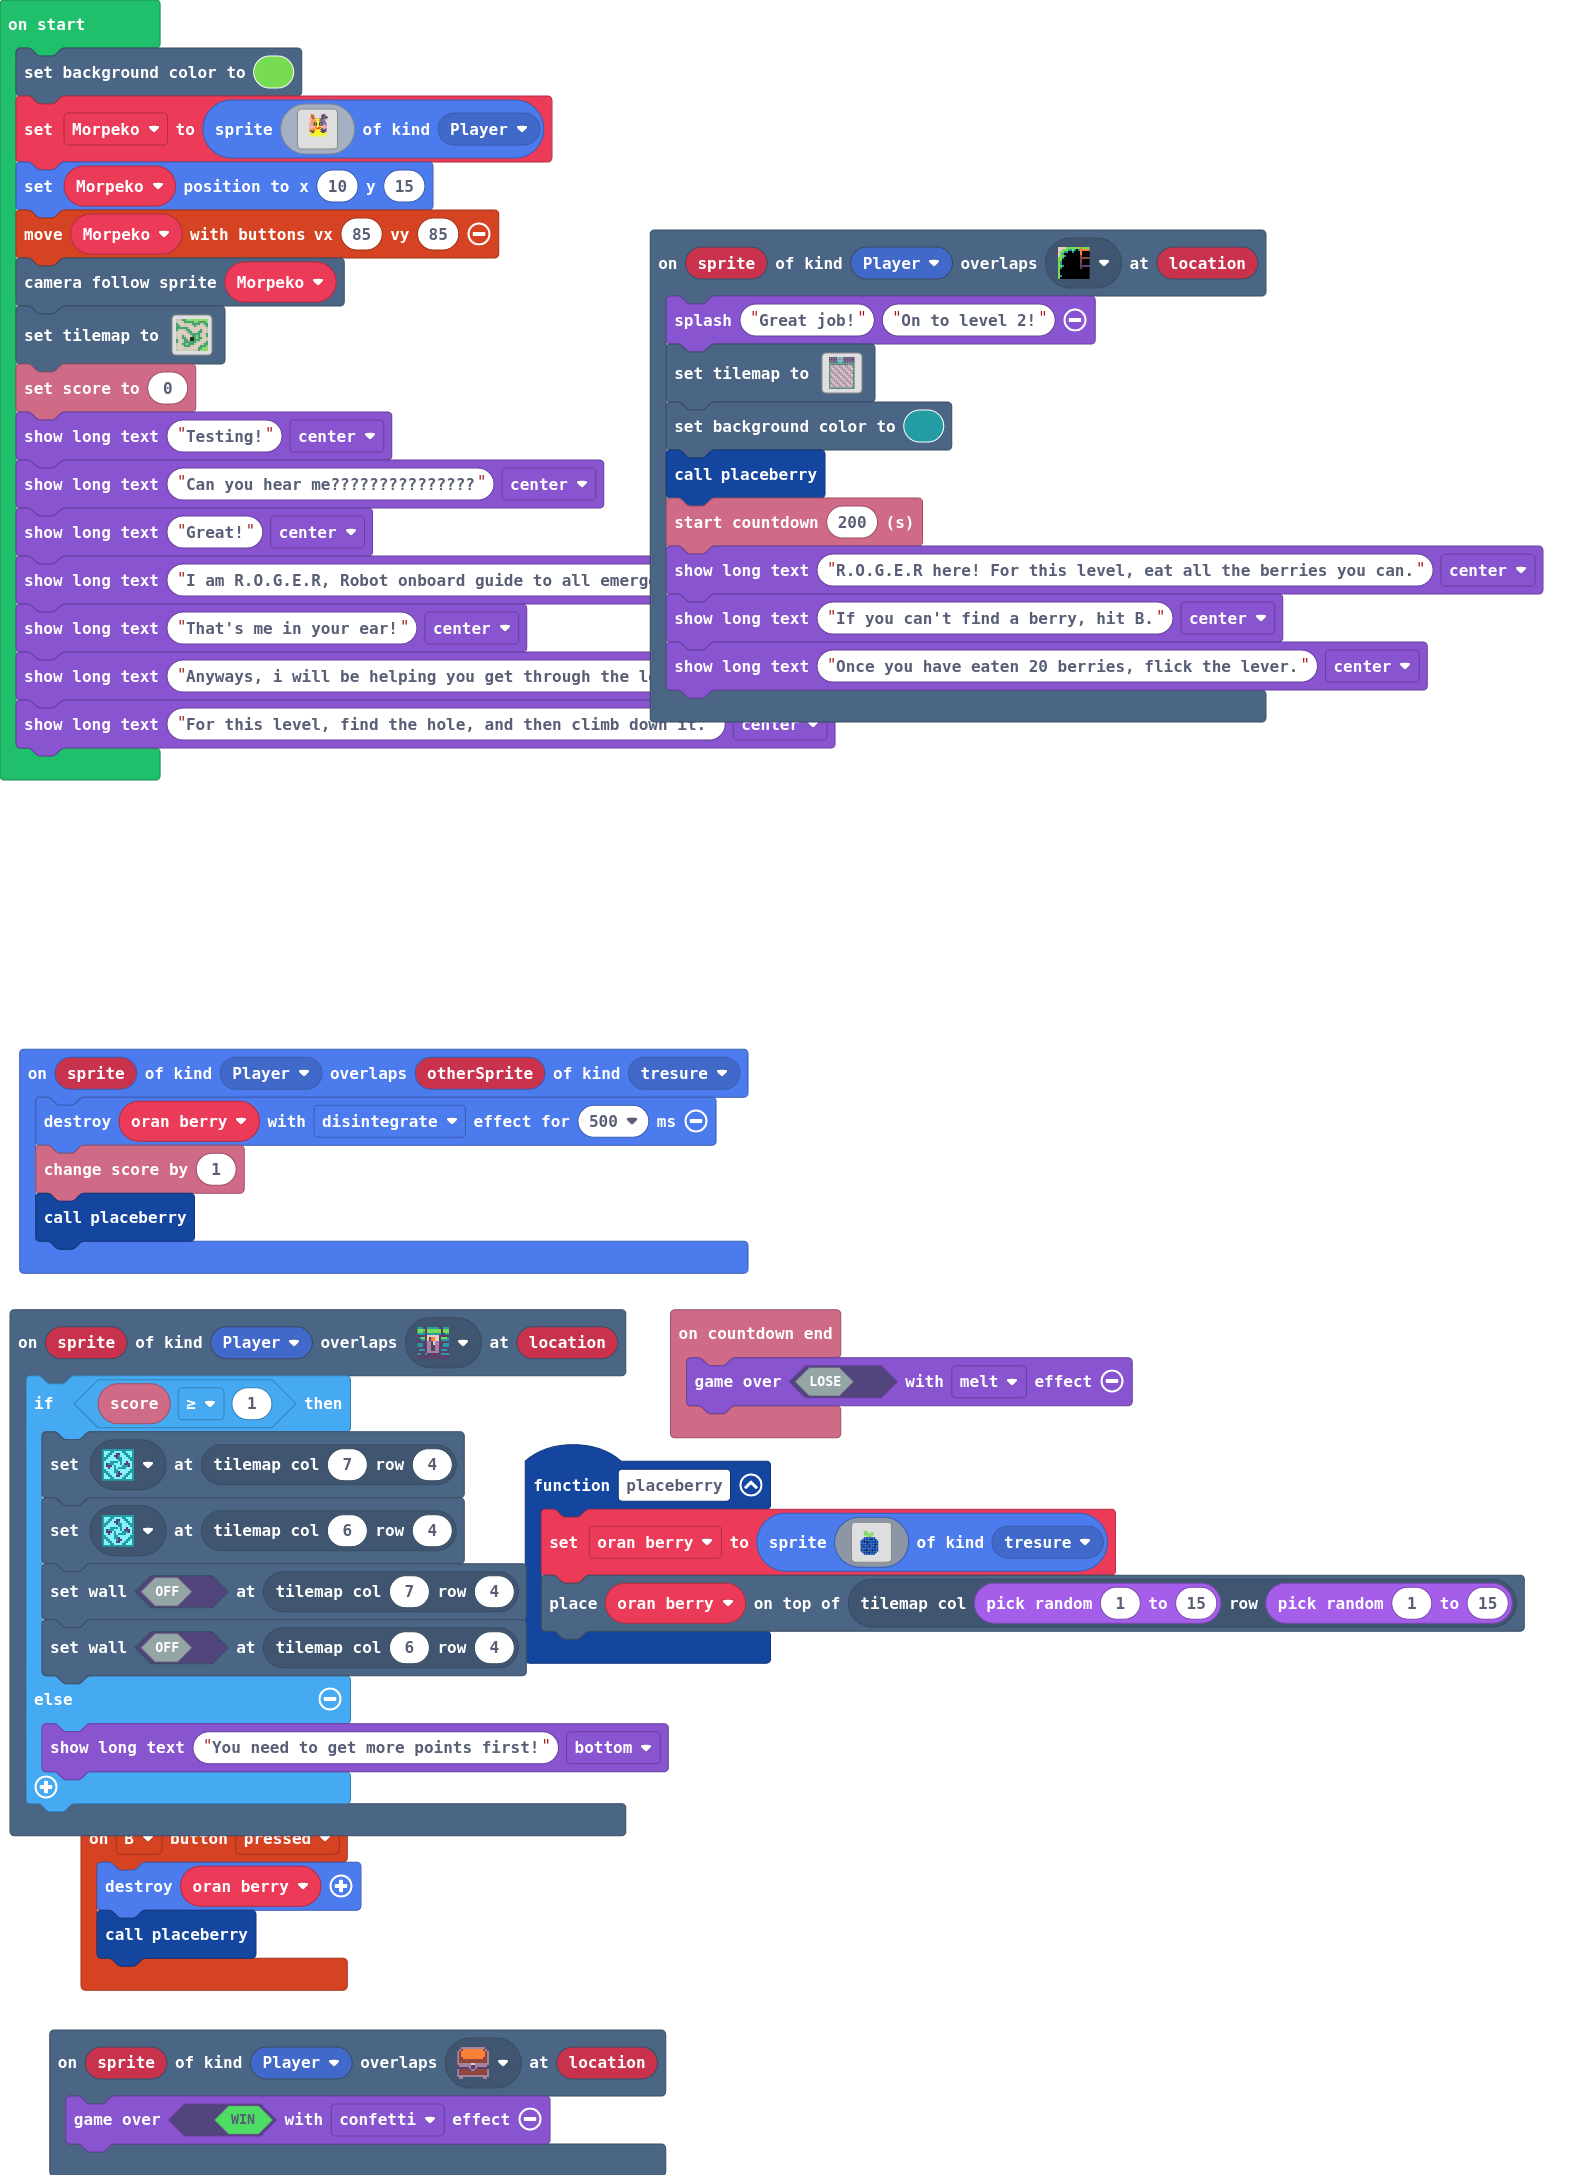
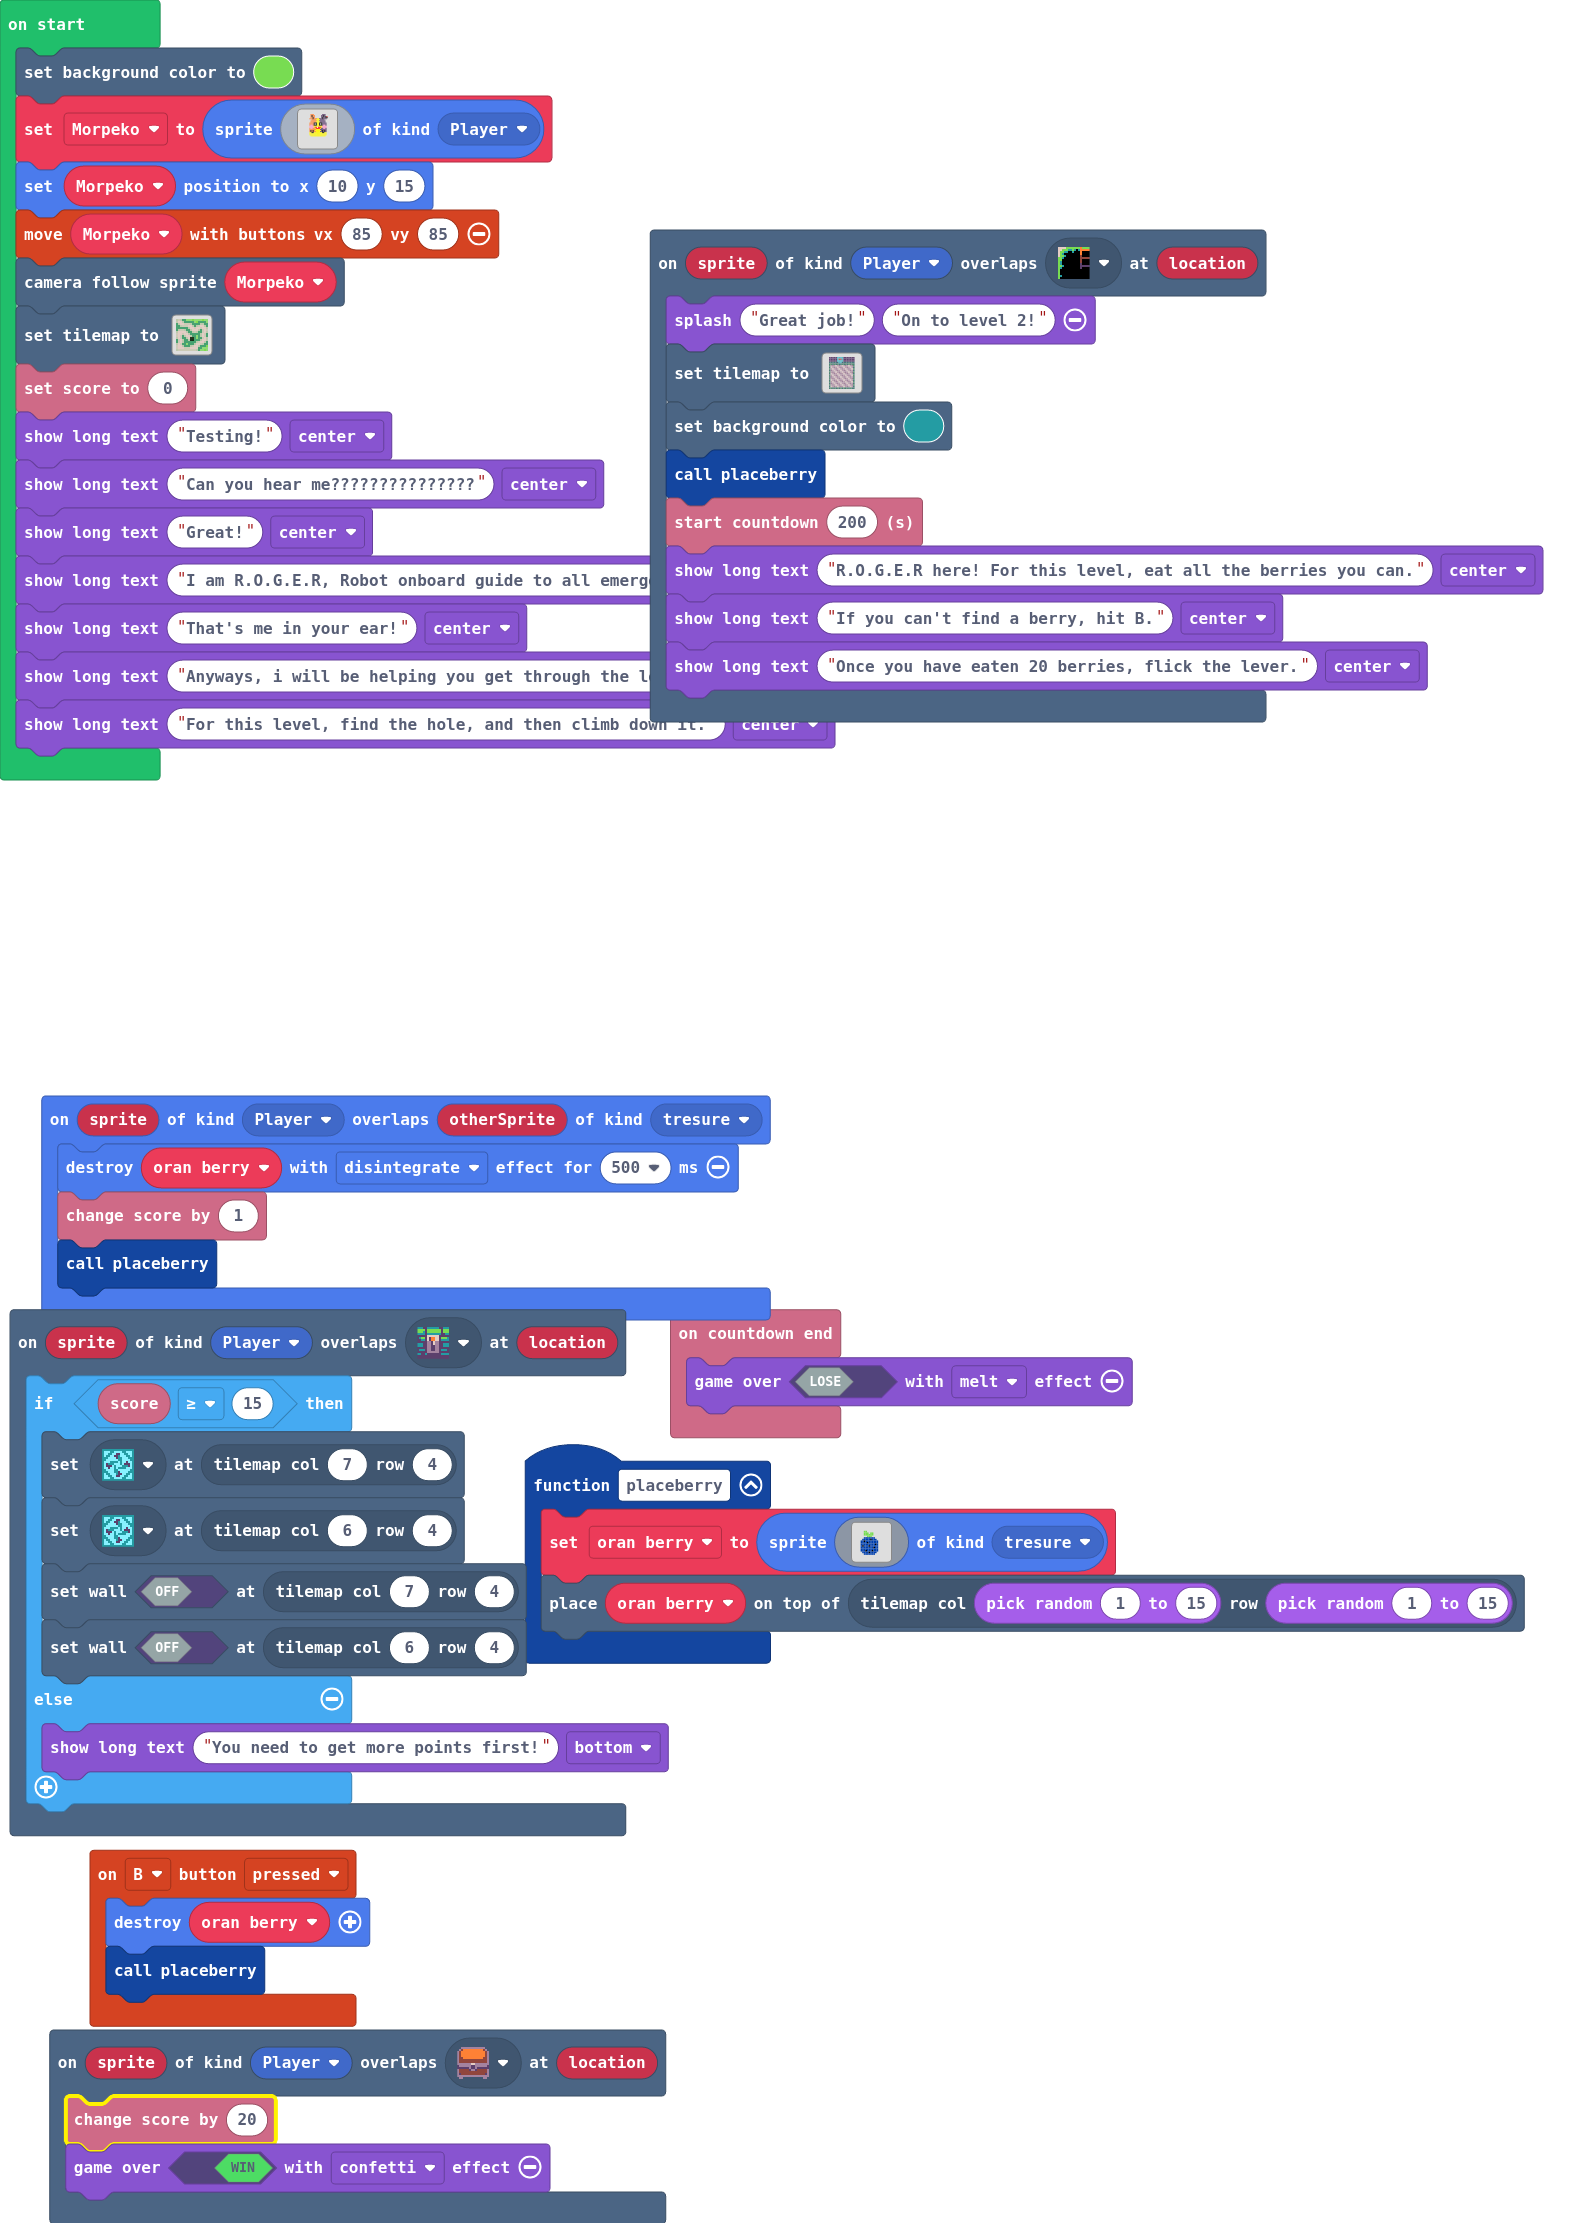
ex testing mode

Changed region(s): [[0.0, 0.4621, 0.9529, 0.9857], [0.0, 0.0308, 0.9837, 0.3697]]

diff --git a/main.ts b/main.ts
@@ -16,7 +16,7 @@ controller.B.onEvent(ControllerButtonEvent.Pressed, function () {
     placeberry()
 })
 scene.onOverlapTile(SpriteKind.Player, sprites.dungeon.greenSwitchUp, function (sprite, location) {
-    if (info.score() >= 1) {
+    if (info.score() >= 15) {
         tiles.setTileAt(tiles.getTileLocation(7, 4), sprites.dungeon.collectibleInsignia)
         tiles.setTileAt(tiles.getTileLocation(6, 4), sprites.dungeon.collectibleInsignia)
         tiles.setWallAt(tiles.getTileLocation(7, 4), false)
@@ -34,6 +34,7 @@ info.onCountdownEnd(function () {
     game.over(false, effects.melt)
 })
 scene.onOverlapTile(SpriteKind.Player, sprites.dungeon.chestClosed, function (sprite, location) {
+    info.changeScoreBy(20)
     game.over(true, effects.confetti)
 })
 function placeberry () {
